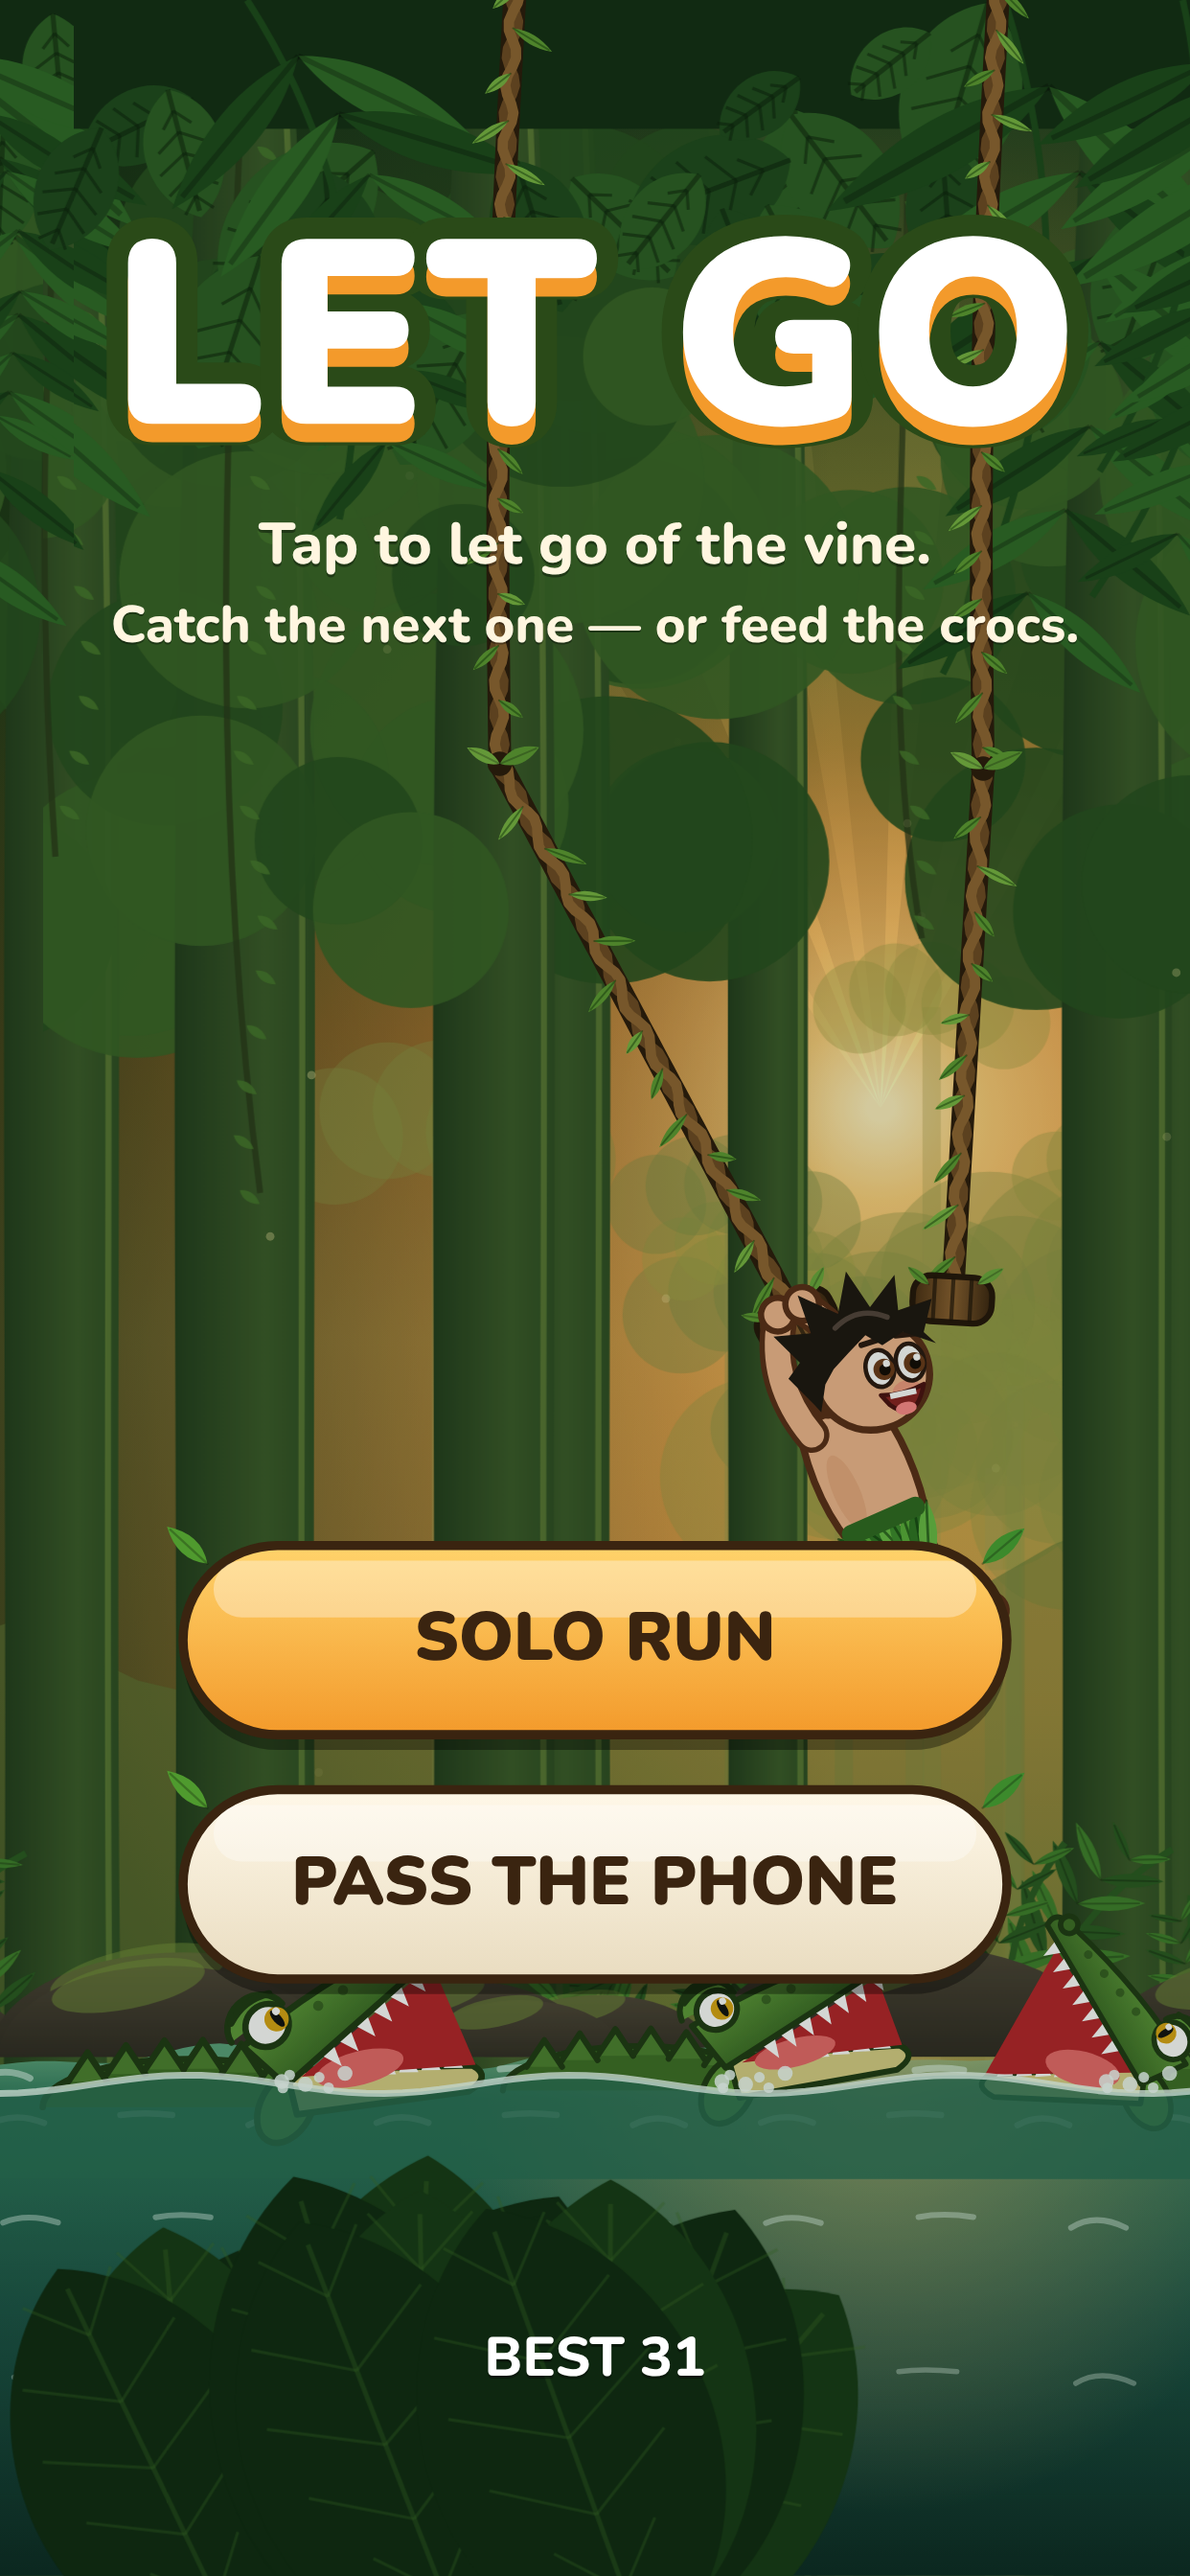
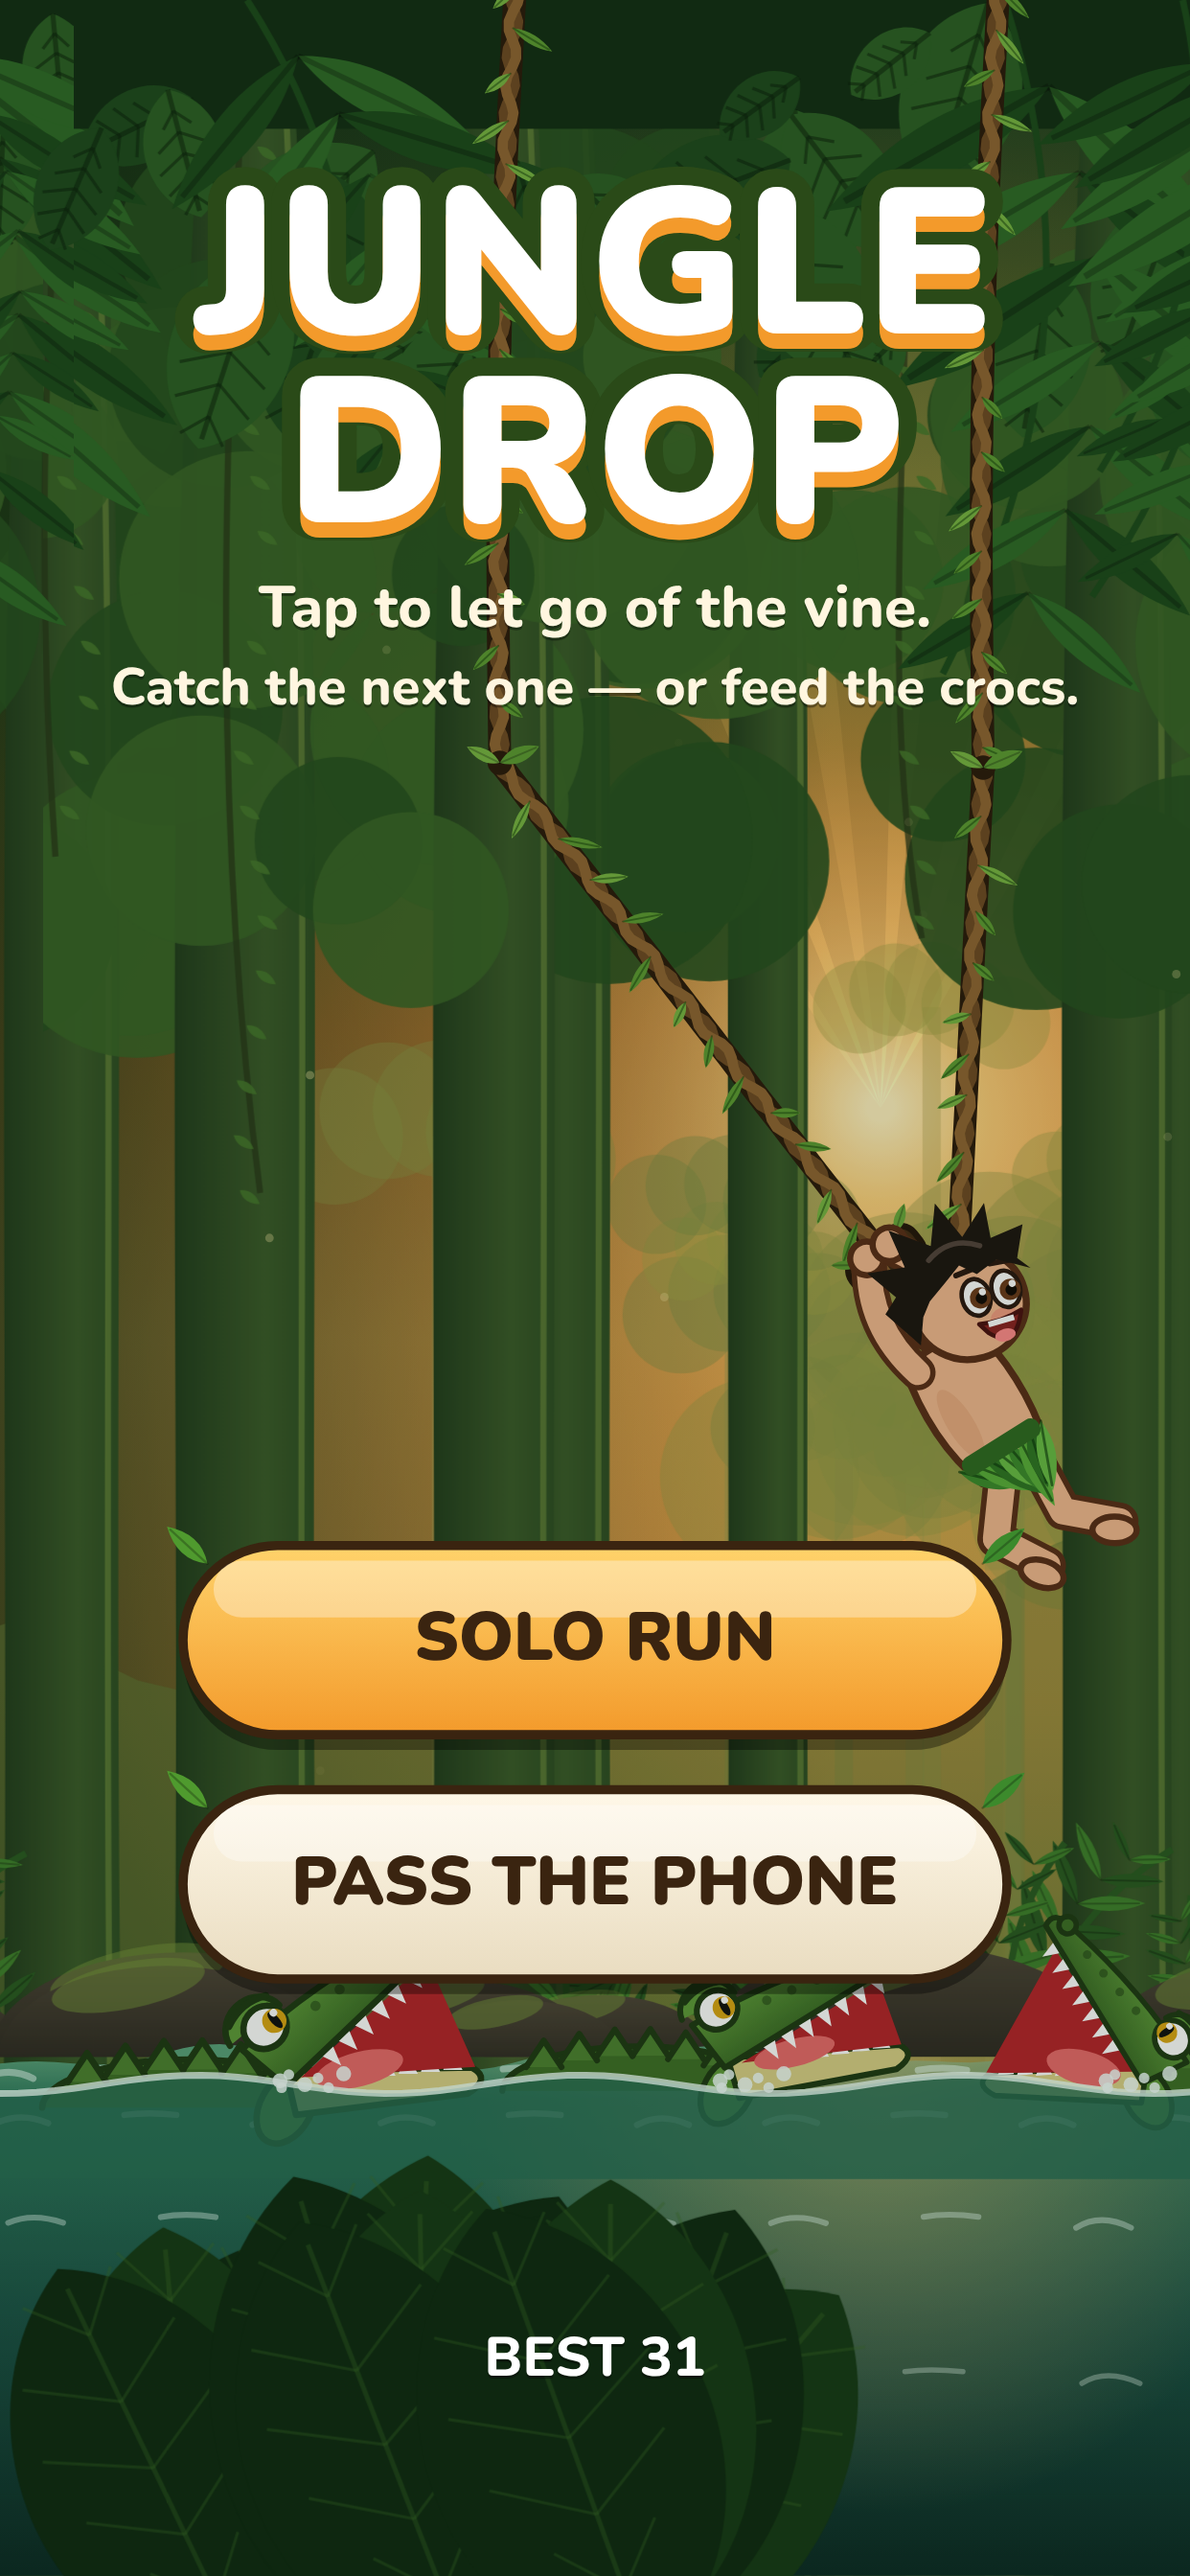
Rename the game to Jungle Drop (App Store display name).
The name Let Go was taken. Bundle ID no.samm.letgo is unchanged.
iOS build number bumped to 2. Title screenshots and GitHub Pages updated.

diff --git a/docs/main.js b/docs/main.js
@@ -264,9 +264,11 @@ function drawUI() {
   const best = store.best;
   if (state === 'menu') {
     c.fillStyle = 'rgba(10,25,10,0.18)'; c.fillRect(0, 0, W, H);
-    txt('LET GO', W / 2, H * 0.14 + ST * 0.5, 86, '#fff', { stroke: '#2a4a18', sw: 14, shadowColor: '#f39a2b', sy: 6 });
-    txt('Tap to let go of the vine.', W / 2, H * 0.14 + ST * 0.5 + 62, 19, '#fff6e0', { weight: 800 });
-    txt('Catch the next one — or feed the crocs.', W / 2, H * 0.14 + ST * 0.5 + 88, 17, '#fff6e0', { weight: 800 });
+    const ty = H * 0.11 + ST * 0.5;
+    txt('JUNGLE', W / 2, ty, 68, '#fff', { stroke: '#2a4a18', sw: 12, shadowColor: '#f39a2b', sy: 5 });
+    txt('DROP', W / 2, ty + 62, 68, '#fff', { stroke: '#2a4a18', sw: 12, shadowColor: '#f39a2b', sy: 5 });
+    txt('Tap to let go of the vine.', W / 2, ty + 62 + 46, 19, '#fff6e0', { weight: 800 });
+    txt('Catch the next one — or feed the crocs.', W / 2, ty + 62 + 72, 17, '#fff6e0', { weight: 800 });
     button('SOLO RUN', 60, H * 0.6, W - 120, 62, startSolo, 'gold');
     button('PASS THE PHONE', 60, H * 0.6 + 80, W - 120, 62, startVersus, 'cream');
     txt(best ? `BEST ${best}` : 'No best yet — the river is patient', W / 2, H - 70, 18, '#fff', { weight: 800 });
@@ -323,23 +325,23 @@ function toMenu() { state = 'menu'; mode = 'solo'; versus = null; menuSim(); }
 
 async function share() {
   const n = sim.score;
-  const text = `I made it ${n} ${n === 1 ? 'vine' : 'vines'} in LET GO before the crocs got me. Beat that 🐊🌴`;
+  const text = `I made it ${n} ${n === 1 ? 'vine' : 'vines'} in JUNGLE DROP before the crocs got me. Beat that 🐊🌴`;
   const url = isNative ? PUBLIC_URL : location.href.split('?')[0];
   try {
     const sc = document.createElement('canvas'); sc.width = 1080; sc.height = 1350; const s = sc.getContext('2d');
     s.drawImage(cv, 0, 0, cv.width, cv.width * 1.25, 0, 0, 1080, 1350);
     s.fillStyle = 'rgba(8,20,10,0.55)'; s.fillRect(0, 0, 1080, 1350);
-    s.textAlign = 'center'; s.fillStyle = '#fff'; s.font = `900 120px ${A.FONT}`; s.fillText('LET GO', 540, 230);
+    s.textAlign = 'center'; s.fillStyle = '#fff'; s.font = `900 120px ${A.FONT}`; s.fillText('JUNGLE DROP', 540, 230);
     s.font = `800 64px ${A.FONT}`; s.fillText('I made it', 540, 520);
     s.fillStyle = '#ffd36b'; s.font = `900 330px ${A.FONT}`; s.fillText(String(n), 540, 860);
     s.fillStyle = '#fff'; s.font = `800 72px ${A.FONT}`; s.fillText(n === 1 ? 'vine' : 'vines', 540, 980);
     s.font = `800 44px ${A.FONT}`; s.fillText(url.replace(/^https?:\/\//, ''), 540, 1250);
     const blob = await new Promise(r => sc.toBlob(r, 'image/png'));
-    const file = new File([blob], 'let-go.png', { type: 'image/png' });
+    const file = new File([blob], 'jungle-drop.png', { type: 'image/png' });
     if (isNative) return await nativeShare(text + ' ' + url, blob);
     if (navigator.canShare && navigator.canShare({ files: [file] })) return await navigator.share({ files: [file], text, url });
     if (navigator.share) return await navigator.share({ text, url });
-    const a = document.createElement('a'); a.href = URL.createObjectURL(blob); a.download = 'let-go.png'; a.click();
+    const a = document.createElement('a'); a.href = URL.createObjectURL(blob); a.download = 'jungle-drop.png'; a.click();
   } catch (e) { try { await navigator.clipboard.writeText(text + ' ' + url); } catch (_) {} }
 }
 

diff --git a/src/main.js b/src/main.js
@@ -264,9 +264,11 @@ function drawUI() {
   const best = store.best;
   if (state === 'menu') {
     c.fillStyle = 'rgba(10,25,10,0.18)'; c.fillRect(0, 0, W, H);
-    txt('LET GO', W / 2, H * 0.14 + ST * 0.5, 86, '#fff', { stroke: '#2a4a18', sw: 14, shadowColor: '#f39a2b', sy: 6 });
-    txt('Tap to let go of the vine.', W / 2, H * 0.14 + ST * 0.5 + 62, 19, '#fff6e0', { weight: 800 });
-    txt('Catch the next one — or feed the crocs.', W / 2, H * 0.14 + ST * 0.5 + 88, 17, '#fff6e0', { weight: 800 });
+    const ty = H * 0.11 + ST * 0.5;
+    txt('JUNGLE', W / 2, ty, 68, '#fff', { stroke: '#2a4a18', sw: 12, shadowColor: '#f39a2b', sy: 5 });
+    txt('DROP', W / 2, ty + 62, 68, '#fff', { stroke: '#2a4a18', sw: 12, shadowColor: '#f39a2b', sy: 5 });
+    txt('Tap to let go of the vine.', W / 2, ty + 62 + 46, 19, '#fff6e0', { weight: 800 });
+    txt('Catch the next one — or feed the crocs.', W / 2, ty + 62 + 72, 17, '#fff6e0', { weight: 800 });
     button('SOLO RUN', 60, H * 0.6, W - 120, 62, startSolo, 'gold');
     button('PASS THE PHONE', 60, H * 0.6 + 80, W - 120, 62, startVersus, 'cream');
     txt(best ? `BEST ${best}` : 'No best yet — the river is patient', W / 2, H - 70, 18, '#fff', { weight: 800 });
@@ -323,23 +325,23 @@ function toMenu() { state = 'menu'; mode = 'solo'; versus = null; menuSim(); }
 
 async function share() {
   const n = sim.score;
-  const text = `I made it ${n} ${n === 1 ? 'vine' : 'vines'} in LET GO before the crocs got me. Beat that 🐊🌴`;
+  const text = `I made it ${n} ${n === 1 ? 'vine' : 'vines'} in JUNGLE DROP before the crocs got me. Beat that 🐊🌴`;
   const url = isNative ? PUBLIC_URL : location.href.split('?')[0];
   try {
     const sc = document.createElement('canvas'); sc.width = 1080; sc.height = 1350; const s = sc.getContext('2d');
     s.drawImage(cv, 0, 0, cv.width, cv.width * 1.25, 0, 0, 1080, 1350);
     s.fillStyle = 'rgba(8,20,10,0.55)'; s.fillRect(0, 0, 1080, 1350);
-    s.textAlign = 'center'; s.fillStyle = '#fff'; s.font = `900 120px ${A.FONT}`; s.fillText('LET GO', 540, 230);
+    s.textAlign = 'center'; s.fillStyle = '#fff'; s.font = `900 120px ${A.FONT}`; s.fillText('JUNGLE DROP', 540, 230);
     s.font = `800 64px ${A.FONT}`; s.fillText('I made it', 540, 520);
     s.fillStyle = '#ffd36b'; s.font = `900 330px ${A.FONT}`; s.fillText(String(n), 540, 860);
     s.fillStyle = '#fff'; s.font = `800 72px ${A.FONT}`; s.fillText(n === 1 ? 'vine' : 'vines', 540, 980);
     s.font = `800 44px ${A.FONT}`; s.fillText(url.replace(/^https?:\/\//, ''), 540, 1250);
     const blob = await new Promise(r => sc.toBlob(r, 'image/png'));
-    const file = new File([blob], 'let-go.png', { type: 'image/png' });
+    const file = new File([blob], 'jungle-drop.png', { type: 'image/png' });
     if (isNative) return await nativeShare(text + ' ' + url, blob);
     if (navigator.canShare && navigator.canShare({ files: [file] })) return await navigator.share({ files: [file], text, url });
     if (navigator.share) return await navigator.share({ text, url });
-    const a = document.createElement('a'); a.href = URL.createObjectURL(blob); a.download = 'let-go.png'; a.click();
+    const a = document.createElement('a'); a.href = URL.createObjectURL(blob); a.download = 'jungle-drop.png'; a.click();
   } catch (e) { try { await navigator.clipboard.writeText(text + ' ' + url); } catch (_) {} }
 }
 

diff --git a/docs/privacy.html b/docs/privacy.html
@@ -1,12 +1,12 @@
 <!doctype html>
 <html lang="en"><head><meta charset="utf-8"><meta name="viewport" content="width=device-width,initial-scale=1">
-<title>Let Go — Privacy Policy</title>
+<title>Jungle Drop — Privacy Policy</title>
 <style>body{font:16px/1.6 -apple-system,system-ui,sans-serif;max-width:720px;margin:0 auto;padding:28px 20px 60px;color:#1d2a1b;background:#fbf8f0}h1{font-size:28px;margin:0 0 4px}h2{font-size:19px;margin-top:28px}small{color:#667}a{color:#2d6a2a}</style>
 </head><body>
-<h1>Let Go — Privacy Policy</h1>
+<h1>Jungle Drop — Privacy Policy</h1>
 <small>Last updated: 25 November 2026</small>
 
-<p>Let Go is a one-tap game by Salambek Abubakarov (Norway). This policy explains what happens with data when you play the iOS app or the web version at salambek92-bit.github.io/let-go.</p>
+<p>Jungle Drop is a one-tap game by Salambek Abubakarov (Norway). This policy explains what happens with data when you play the iOS app or the web version at salambek92-bit.github.io/let-go.</p>
 
 <h2>What the game itself collects</h2>
 <p>Nothing. There are no accounts, no sign-in, and we run no servers or analytics. Your best score is stored only on your own device and is deleted when you delete the app.</p>
@@ -28,7 +28,7 @@
 </ul>
 
 <h2>Children</h2>
-<p>Let Go is not directed at children under 13 and we do not knowingly collect personal data from children.</p>
+<p>Jungle Drop is not directed at children under 13 and we do not knowingly collect personal data from children.</p>
 
 <h2>Sharing</h2>
 <p>The Share button opens the iOS share sheet with a picture of your score. Nothing is sent anywhere unless you choose an app to share with.</p>

diff --git a/src/privacy.html b/src/privacy.html
@@ -1,12 +1,12 @@
 <!doctype html>
 <html lang="en"><head><meta charset="utf-8"><meta name="viewport" content="width=device-width,initial-scale=1">
-<title>Let Go — Privacy Policy</title>
+<title>Jungle Drop — Privacy Policy</title>
 <style>body{font:16px/1.6 -apple-system,system-ui,sans-serif;max-width:720px;margin:0 auto;padding:28px 20px 60px;color:#1d2a1b;background:#fbf8f0}h1{font-size:28px;margin:0 0 4px}h2{font-size:19px;margin-top:28px}small{color:#667}a{color:#2d6a2a}</style>
 </head><body>
-<h1>Let Go — Privacy Policy</h1>
+<h1>Jungle Drop — Privacy Policy</h1>
 <small>Last updated: 25 November 2026</small>
 
-<p>Let Go is a one-tap game by Salambek Abubakarov (Norway). This policy explains what happens with data when you play the iOS app or the web version at salambek92-bit.github.io/let-go.</p>
+<p>Jungle Drop is a one-tap game by Salambek Abubakarov (Norway). This policy explains what happens with data when you play the iOS app or the web version at salambek92-bit.github.io/let-go.</p>
 
 <h2>What the game itself collects</h2>
 <p>Nothing. There are no accounts, no sign-in, and we run no servers or analytics. Your best score is stored only on your own device and is deleted when you delete the app.</p>
@@ -28,7 +28,7 @@
 </ul>
 
 <h2>Children</h2>
-<p>Let Go is not directed at children under 13 and we do not knowingly collect personal data from children.</p>
+<p>Jungle Drop is not directed at children under 13 and we do not knowingly collect personal data from children.</p>
 
 <h2>Sharing</h2>
 <p>The Share button opens the iOS share sheet with a picture of your score. Nothing is sent anywhere unless you choose an app to share with.</p>

diff --git a/docs/support.html b/docs/support.html
@@ -1,9 +1,9 @@
 <!doctype html>
 <html lang="en"><head><meta charset="utf-8"><meta name="viewport" content="width=device-width,initial-scale=1">
-<title>Let Go — Support</title>
+<title>Jungle Drop — Support</title>
 <style>body{font:16px/1.6 -apple-system,system-ui,sans-serif;max-width:720px;margin:0 auto;padding:28px 20px 60px;color:#1d2a1b;background:#fbf8f0}a{color:#2d6a2a}</style>
 </head><body>
-<h1>Let Go — Support</h1>
+<h1>Jungle Drop — Support</h1>
 <p><b>How to play:</b> you hang on a swinging vine. Tap to let go. If your hands hit the next vine you grab it automatically. Hang too long and the vine snaps. Miss, and the crocodiles win. Score = vines caught.</p>
 <p><b>Pass the phone:</b> two players get the exact same jungle, one after the other. Most vines wins.</p>
 <p><b>Ads:</b> the iOS app shows one full-screen ad after every third game, never during a swing.</p>

diff --git a/src/support.html b/src/support.html
@@ -1,9 +1,9 @@
 <!doctype html>
 <html lang="en"><head><meta charset="utf-8"><meta name="viewport" content="width=device-width,initial-scale=1">
-<title>Let Go — Support</title>
+<title>Jungle Drop — Support</title>
 <style>body{font:16px/1.6 -apple-system,system-ui,sans-serif;max-width:720px;margin:0 auto;padding:28px 20px 60px;color:#1d2a1b;background:#fbf8f0}a{color:#2d6a2a}</style>
 </head><body>
-<h1>Let Go — Support</h1>
+<h1>Jungle Drop — Support</h1>
 <p><b>How to play:</b> you hang on a swinging vine. Tap to let go. If your hands hit the next vine you grab it automatically. Hang too long and the vine snaps. Miss, and the crocodiles win. Score = vines caught.</p>
 <p><b>Pass the phone:</b> two players get the exact same jungle, one after the other. Most vines wins.</p>
 <p><b>Ads:</b> the iOS app shows one full-screen ad after every third game, never during a swing.</p>

diff --git a/docs/native.js b/docs/native.js
@@ -29,7 +29,7 @@ export async function nativeShare(text, blob) {
     const fs = P('Filesystem');
     if (blob && fs) {
       const data = await new Promise((r) => { const fr = new FileReader(); fr.onload = () => r(String(fr.result).split(',')[1]); fr.readAsDataURL(blob); });
-      const w = await fs.writeFile({ path: 'let-go.png', data, directory: 'CACHE' });
+      const w = await fs.writeFile({ path: 'jungle-drop.png', data, directory: 'CACHE' });
       files = [w.uri];
     }
     await s.share(files ? { text, files } : { text, url: PUBLIC_URL });

diff --git a/src/native.js b/src/native.js
@@ -29,7 +29,7 @@ export async function nativeShare(text, blob) {
     const fs = P('Filesystem');
     if (blob && fs) {
       const data = await new Promise((r) => { const fr = new FileReader(); fr.onload = () => r(String(fr.result).split(',')[1]); fr.readAsDataURL(blob); });
-      const w = await fs.writeFile({ path: 'let-go.png', data, directory: 'CACHE' });
+      const w = await fs.writeFile({ path: 'jungle-drop.png', data, directory: 'CACHE' });
       files = [w.uri];
     }
     await s.share(files ? { text, files } : { text, url: PUBLIC_URL });

diff --git a/docs/index.html b/docs/index.html
@@ -7,7 +7,7 @@
 <meta name="mobile-web-app-capable" content="yes">
 <meta name="apple-mobile-web-app-status-bar-style" content="black-translucent">
 <meta name="theme-color" content="#1b3a1f">
-<title>Let Go — one tap jungle rage</title>
+<title>Jungle Drop — one tap jungle rage</title>
 <meta name="description" content="Tap to let go of the vine. Catch the next one, or feed the crocodiles.">
 <link rel="icon" href="icon.svg" type="image/svg+xml">
 <link rel="apple-touch-icon" href="icon.svg">

diff --git a/src/index.html b/src/index.html
@@ -7,7 +7,7 @@
 <meta name="mobile-web-app-capable" content="yes">
 <meta name="apple-mobile-web-app-status-bar-style" content="black-translucent">
 <meta name="theme-color" content="#1b3a1f">
-<title>Let Go — one tap jungle rage</title>
+<title>Jungle Drop — one tap jungle rage</title>
 <meta name="description" content="Tap to let go of the vine. Catch the next one, or feed the crocodiles.">
 <link rel="icon" href="icon.svg" type="image/svg+xml">
 <link rel="apple-touch-icon" href="icon.svg">

diff --git a/docs/art.js b/docs/art.js
@@ -1,4 +1,4 @@
-// Let Go — all art drawn in code (crisp at any DPR).
+// Jungle Drop — all art drawn in code (crisp at any DPR).
 export const FONT = '"SF Pro Rounded","Arial Rounded MT Bold",ui-rounded,"Nunito","Baloo 2","Trebuchet MS",system-ui,sans-serif';
 
 export function mulberry(a) { return () => { a |= 0; a = (a + 0x6d2b79f5) | 0; let t = Math.imul(a ^ (a >>> 15), 1 | a); t = (t + Math.imul(t ^ (t >>> 7), 61 | t)) ^ t; return ((t ^ (t >>> 14)) >>> 0) / 4294967296; }; }

diff --git a/src/art.js b/src/art.js
@@ -1,4 +1,4 @@
-// Let Go — all art drawn in code (crisp at any DPR).
+// Jungle Drop — all art drawn in code (crisp at any DPR).
 export const FONT = '"SF Pro Rounded","Arial Rounded MT Bold",ui-rounded,"Nunito","Baloo 2","Trebuchet MS",system-ui,sans-serif';
 
 export function mulberry(a) { return () => { a |= 0; a = (a + 0x6d2b79f5) | 0; let t = Math.imul(a ^ (a >>> 15), 1 | a); t = (t + Math.imul(t ^ (t >>> 7), 61 | t)) ^ t; return ((t ^ (t >>> 14)) >>> 0) / 4294967296; }; }
